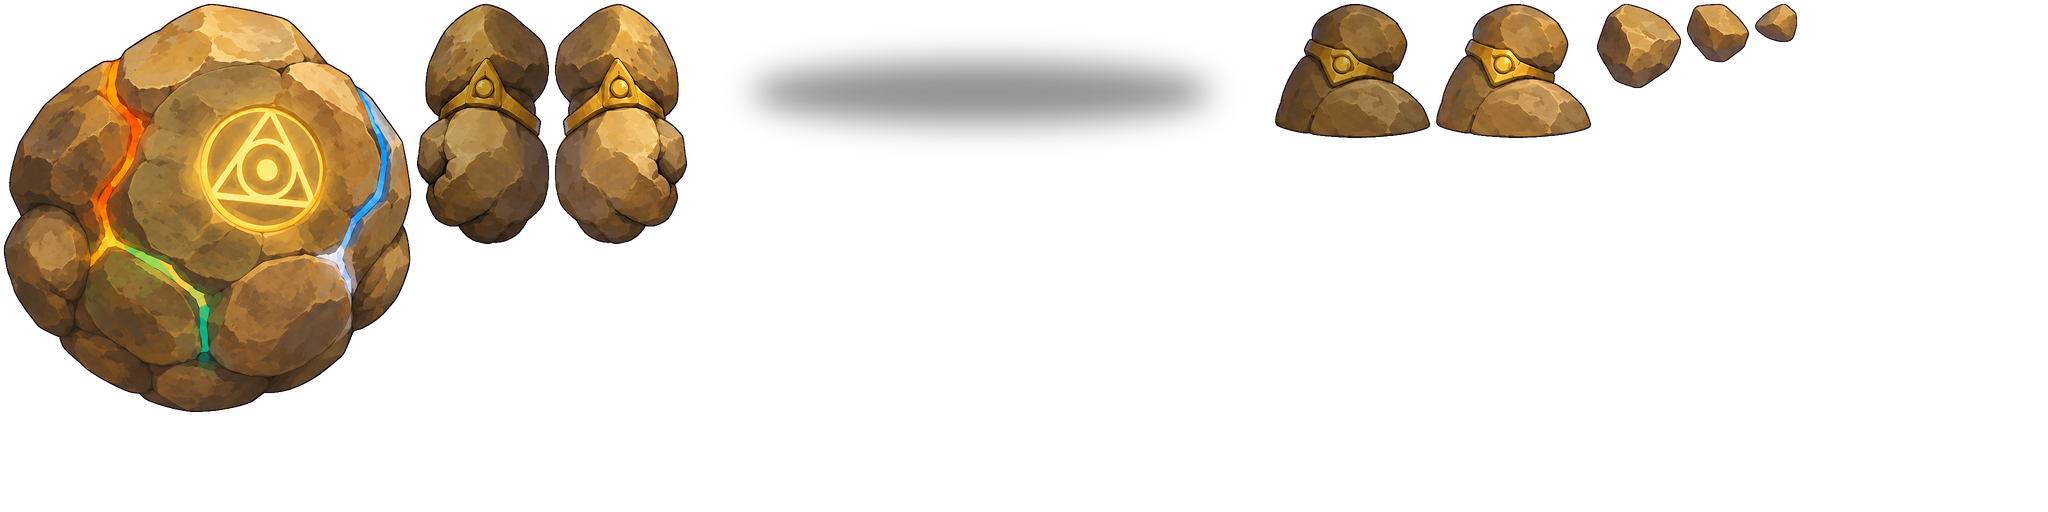
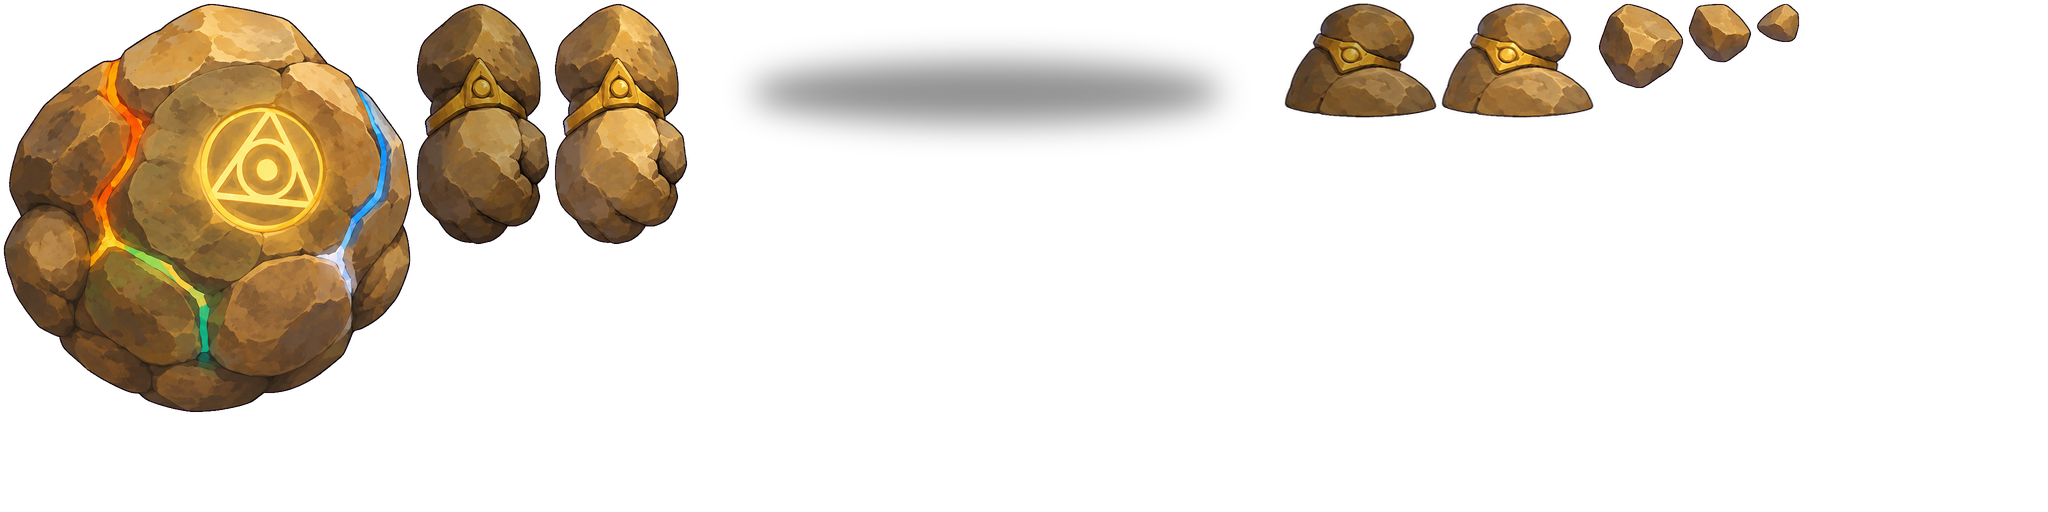
ゴーレムの腕の前後を元の絵どおりに（奥の腕は胴の後ろ）、位置と大きさを元の絵の輪郭に合わせる。codex execはすべて--ephemeralに

Changed region(s): [[0.625, 0.0, 0.875, 0.2812], [0.1875, 0.0, 0.2812, 0.5]]

diff --git a/scripts/golem-build.py b/scripts/golem-build.py
@@ -1,4 +1,4 @@
-"""Builds the golem's own Spine rig (2026-10-02, user: the golem too, with a reaction to damage) from the parts cut
+"""Builds the golem's own Spine rig (2026-10-02, user: the golem too, with a reaction to damage) from the parts cut
 by rig-cut.py (rig-parts.py --set golem): assets/art/pets/rig/golem.{spine-json,atlas,png}.
 
 The golem uses the Necrobinder's Osty state machine (HomunculusPet), so the rig has Osty's animations: idle_loop,
@@ -18,32 +18,38 @@ ROOT = Path(__file__).resolve().parent.parent
 PARTS = ROOT / "assets/art/character/rig/alchemist/parts"
 OUT = ROOT / "assets/art/pets/rig"
 # Laid out over the original picture (assets/art/pets/golem.png, 340x360; user 2026-10-02: "follow the original
-# image closely"): 1 px of it is 1.58 sheet px, its ground (y 318) is y 0 here, its x 170 is x 0. Squat: a round
-# boulder body as wide as tall, stubby legs mostly behind it, short arms with big fists near the ground.
+# image closely"), measured on a grid of it (artifacts/rig-custom/golem-grid.png): 1 px of it is 1.6 sheet px, its
+# x 172 (the body's middle) is x 0 here and its ground (y 325) is y 0. There the body is a boulder 255 px wide
+# (x 45-300, y 0-240); the near arm hangs in FRONT of the body's left side (top at 55,138, fist down to y 265); the
+# far arm hangs BEHIND the body's right edge (top at about 297,150, fist down to y 275; user: the arms' front and
+# back were reversed); the near leg (x 55-155, y 255-325) and the far leg (x 180-275, y 245-310) show under it.
 # On screen it stands as tall as the old still sprite (PetArt.GolemHeight 190 px): measured, one sheet px times
-# SCALE is about 0.31 px, and the golem is about 455 sheet px tall.
-SCALE = 1.34
+# SCALE is about 0.31 px, and the golem is about 525 sheet px tall.
+SCALE = 1.19
 FAR = "c8c8cc"
+BODY_SCALE = 1.0
+ARM_SCALE = 1.0
+LEG_SCALE, LEG_WIDTH = 0.85, 1.15  # squatter legs, as in the original
 
 BONES = {
     "root": (None, 0, 0, 0),
-    "body": ("root", 55, 249, 90),
-    "arm_b": ("body", -168, 290, -102),
-    "arm_f": ("body", 222, 285, -76),
-    "leg_b": ("root", -95, 132, -90),
-    "leg_f": ("root", 125, 132, -90),
+    "body": ("root", 0, 306, 90),
+    "arm_b": ("body", -190, 300, -94),
+    "arm_f": ("body", 205, 285, -89),
+    "leg_b": ("root", -100, 118, -90),
+    "leg_f": ("root", 100, 128, -90),
     # Chips knocked off when hit (hidden otherwise).
-    "chip1": ("body", 120, 330, 0),
-    "chip2": ("body", -20, 400, 0),
-    "chip3": ("body", 170, 230, 0),
+    "chip1": ("body", 80, 420, 0),
+    "chip2": ("body", -60, 470, 0),
+    "chip3": ("body", 140, 300, 0),
 }
 
 SHOULDER_OVERLAP = 0  # the arms' top stone is drawn whole, in front of the body
 HIP_OVERLAP = 0
 
 
-def arm_slot(slot, bone, part, flip, tint, images):
-    images[slot] = prepare(PARTS / f"{part}.png", flip=flip, tint=tint)
+def arm_slot(slot, bone, part, flip, tint, images, scale_by=1.0, width=1.0):
+    images[slot] = prepare(PARTS / f"{part}.png", flip=flip, tint=tint, scale_by=scale_by, width=width)
     r = BONES[bone][3] + 90
     return (slot, bone, *place(images[slot], BONES[bone][1:3], r, SHOULDER_OVERLAP if "arm" in bone else HIP_OVERLAP), r)
 
@@ -140,15 +146,15 @@ SLOT_COLORS = {"hurt": {s: [(0, WHITE), (0.04, RED), (0.3, WHITE)] for s in STON
 
 def main():
     OUT.mkdir(parents=True, exist_ok=True)
-    images = {"shadow": shadow(460, 60)}
-    slots = [("shadow", "root", 30, 8, 0)]
-    slots.append(arm_slot("leg_f", "leg_f", "GOLEM_LEG", False, FAR, images))
-    slots.append(arm_slot("leg_b", "leg_b", "GOLEM_LEG", False, None, images))
-    images["body"] = prepare(PARTS / "GOLEM_BODY.png")
+    images = {"shadow": shadow(470, 60)}
+    slots = [("shadow", "root", -10, 8, 0)]
+    # Back to front as in the original: far arm and far leg behind the body, then the near leg and near arm.
+    slots.append(arm_slot("arm_f", "arm_f", "GOLEM_ARM", False, FAR, images, ARM_SCALE))
+    slots.append(arm_slot("leg_f", "leg_f", "GOLEM_LEG", False, FAR, images, LEG_SCALE, LEG_WIDTH))
+    images["body"] = prepare(PARTS / "GOLEM_BODY.png", scale_by=BODY_SCALE)
     slots.append(("body", "body", *BONES["body"][1:3], 0))
-    # In the original both arms hang in front of the body's sides; the far one a little darker.
-    slots.append(arm_slot("arm_f", "arm_f", "GOLEM_ARM", True, FAR, images))
-    slots.append(arm_slot("arm_b", "arm_b", "GOLEM_ARM", False, None, images))
+    slots.append(arm_slot("leg_b", "leg_b", "GOLEM_LEG", False, None, images, LEG_SCALE, LEG_WIDTH))
+    slots.append(arm_slot("arm_b", "arm_b", "GOLEM_ARM", False, None, images, ARM_SCALE))
     for i, chip in enumerate(("chip1", "chip2", "chip3")):
         images[chip] = prepare(PARTS / f"PEBBLE_{i + 1}.png")
         slots.append((chip, chip, *BONES[chip][1:3], 0))

diff --git a/scripts/generate-icons.py b/scripts/generate-icons.py
@@ -199,7 +199,7 @@ if "--cut-only" not in sys.argv:
         "attached sheet shows base-game icons for STYLE ONLY: do not copy those objects.\n"
         "Then save the generated image as " + sheet.relative_to(ROOT).as_posix() + " in the current repository "
         "(overwrite if it exists). Do not edit any other file. Reply with the saved path only.\n\n" + cells + "\n")
-    cmd = [codex, "exec", "-s", "workspace-write", "-C", str(ROOT), "-c", f'model_reasoning_effort="{arg("--reasoning", "low")}"']
+    cmd = [codex, "exec", "--ephemeral", "-s", "workspace-write", "-C", str(ROOT), "-c", f'model_reasoning_effort="{arg("--reasoning", "low")}"']
     if REFERENCE.exists():
         cmd += ["-i", str(REFERENCE)]
     cmd.append("-")

diff --git a/scripts/generate-art-grid.py b/scripts/generate-art-grid.py
@@ -83,7 +83,7 @@ task = (
     "Then save the generated image as " + sheet.relative_to(ROOT).as_posix() + " in the current repository "
     "(overwrite if it exists). Do not edit any other file. Reply with the saved path only.\n\n"
     "COMMON STYLE FOR EVERY PANEL:\n" + style + "\n\n" + "\n\n".join(panels) + "\n")
-cmd = [codex, "exec", "-s", "workspace-write", "-C", str(ROOT), "-c", f'model_reasoning_effort="{reasoning}"',
+cmd = [codex, "exec", "--ephemeral", "-s", "workspace-write", "-C", str(ROOT), "-c", f'model_reasoning_effort="{reasoning}"',
        "-i", str(KEY_VISUAL), "-"]
 started = time.time()
 print(f"{len(todo)}枚（{', '.join(e['title'] for e in todo)}）を1回で生成します。")

diff --git a/scripts/rig-parts.py b/scripts/rig-parts.py
@@ -223,7 +223,7 @@ task = ("Use your built-in image generation tool to create exactly one image, la
         + sheet.relative_to(ROOT).as_posix() + " (overwrite if it exists). Do not edit any other file. Reply with the "
         "saved path only.\n\n" + BRIEF + "\n".join(f"- {name}: {desc}" for name, desc in PARTS)
         + (f"\nExtra direction: {note}" if note else "") + "\n")
-cmd = [codex, "exec", "-s", "workspace-write", "-C", str(ROOT), "-c", 'model_reasoning_effort="low"']
+cmd = [codex, "exec", "--ephemeral", "-s", "workspace-write", "-C", str(ROOT), "-c", 'model_reasoning_effort="low"']
 for ref in REFS:
     cmd += ["-i", str(ref)]
 cmd.append("-")

diff --git a/scripts/rest-merchant-art.py b/scripts/rest-merchant-art.py
@@ -47,7 +47,7 @@ if "--cut-only" not in sys.argv:
         "RIGHT HALF (shop): the Alchemist standing, full body, three-quarter view facing RIGHT toward a shopkeeper who "
         "is NOT drawn, relaxed, one hand on a vial at the belt, curious. Feet near the bottom edge, head near the top. "
         "No golem in this half.\n" + (arg("--note", "") or ""))
-    cmd = [codex, "exec", "-s", "workspace-write", "-C", str(ROOT), "-c", 'model_reasoning_effort="low"']
+    cmd = [codex, "exec", "--ephemeral", "-s", "workspace-write", "-C", str(ROOT), "-c", 'model_reasoning_effort="low"']
     for ref in REFS:
         cmd += ["-i", str(ref)]
     cmd.append("-")

diff --git a/scripts/generate-art.py b/scripts/generate-art.py
@@ -66,7 +66,7 @@ def run(e):
     with open(LOGS / f"{e['slug']}.log", "w", encoding="utf-8") as log:
         try:
             # The key visual is attached so the alchemist looks the same in every card.
-            subprocess.run([codex, "exec", "-s", "workspace-write", "-C", str(ROOT), "-i", str(KEY_VISUAL), "-"],
+            subprocess.run([codex, "exec", "--ephemeral", "-s", "workspace-write", "-C", str(ROOT), "-i", str(KEY_VISUAL), "-"],
                            input=task, text=True,
                            encoding="utf-8", stdout=log, stderr=subprocess.STDOUT, timeout=900, cwd=ROOT)
         except subprocess.TimeoutExpired:

diff --git a/scripts/homunculus-concepts.py b/scripts/homunculus-concepts.py
@@ -63,7 +63,7 @@ task = ("Use your built-in image generation tool to create exactly one image, sq
         + " (overwrite if it exists). Do not edit any other file. Reply with the saved path only.\n\n" + BRIEF + "\n"
         + "\n".join(f"PANEL {pos}: {desc}" for _, pos, desc in PANELS)
         + (f"\nExtra direction: {note}" if note else "") + "\n")
-cmd = [codex, "exec", "-s", "workspace-write", "-C", str(ROOT), "-c", 'model_reasoning_effort="low"']
+cmd = [codex, "exec", "--ephemeral", "-s", "workspace-write", "-C", str(ROOT), "-c", 'model_reasoning_effort="low"']
 for ref in REFS:
     cmd += ["-i", str(ref)]
 cmd.append("-")

diff --git a/scripts/select-bg.py b/scripts/select-bg.py
@@ -52,7 +52,7 @@ brief = (
     "ascension selector sit) contain only the plain backdrop.\n"
     "Style: Slay the Spire 2 painterly look, minimal thin line work, large flat colour masses with soft brush "
     "texture, dramatic lighting. No text, no logo, no frame, no UI.\n" + (f"Extra direction: {note}\n" if note else ""))
-cmd = [codex, "exec", "-s", "workspace-write", "-C", str(ROOT), "-c", 'model_reasoning_effort="low"']
+cmd = [codex, "exec", "--ephemeral", "-s", "workspace-write", "-C", str(ROOT), "-c", 'model_reasoning_effort="low"']
 for ref in REFS:
     cmd += ["-i", str(ref)]
 cmd.append("-")

diff --git a/scripts/keyvisual.py b/scripts/keyvisual.py
@@ -114,7 +114,7 @@ def run(item):
             "reference as described. Then save the generated image as " + rel + " in the current repository "
             "(overwrite if it exists). Do not edit any other file. Reply with the saved path only.\n\n"
             + BRIEF + "\n" + direction + (f"\nExtra direction: {note}" if note else "") + "\n")
-    cmd = [codex, "exec", "-s", "workspace-write", "-C", str(ROOT)]
+    cmd = [codex, "exec", "--ephemeral", "-s", "workspace-write", "-C", str(ROOT)]
     for ref in REFS:
         cmd += ["-i", str(ref)]
     cmd.append("-")

diff --git a/docs/session-log.md b/docs/session-log.md
@@ -18,7 +18,9 @@
 4. スモーク：ゴーレム・休憩所・商人の確認項目を骨格用に書き換え（`smoke.ps1`はpets/rigもコピー）。
 5. 確認用：`artifacts/rig-probe/golem-v1-sheet.png`（左はネクロバインダー＝大きさの目安）、`artifacts/rig-probe/rest2-cmp.png`、`artifacts/rig-probe/merchant1-cmp.png`。
 
-6. ユーザー「ゴーレムがデカくてやだ。元画像に丁寧に沿って」→ `rig-parts.py --set golem2`で、元の絵（`assets/art/pets/golem.png`）と同じずんぐりした形の部品を生成し直し（1回）、元の絵に重ねて配置（元の絵の1px＝1.58シート px、脚は胴の後ろ、腕は胴の両脇の手前）。画面の高さは元の1枚絵と同じ190px（SCALE 1.34）。比較：`artifacts/rig-custom/golem-cmp.png`、ゲームでの大きさ：`artifacts/rig-probe/golem-v2-sheet.png`。スモーク405件PASS。**ゲームが起動中で未反映**（終了後に`scripts/update.ps1`）。
+6. ユーザー「ゴーレムがデカくてやだ。元画像に丁寧に沿って」→ `rig-parts.py --set golem2`で、元の絵（`assets/art/pets/golem.png`）と同じずんぐりした形の部品を生成し直し（1回）、元の絵に重ねて配置（元の絵の1px＝1.58シート px、脚は胴の後ろ、腕は胴の両脇の手前）。画面の高さは元の1枚絵と同じ190px（SCALE 1.34）。比較：`artifacts/rig-custom/golem-cmp.png`、ゲームでの大きさ：`artifacts/rig-probe/golem-v2-sheet.png`。スモーク405件PASS。
+7. ユーザー「ゴーレムの手の前後が逆。位置も微妙に違う」→ 元の絵に方眼を引いて部位の位置を測り（`artifacts/rig-custom/golem-grid.png`）、奥の腕（画面右）を胴の後ろ、手前の腕を胴の前に。元の絵の輪郭を重ねて（`artifacts/rig-custom/golem-overlay.py`）胴・腕・脚の位置と大きさを合わせた（腕を大きく、脚は低く幅広に）。画面の高さ190px（SCALE 1.19）。スモーク405件PASS、反映済み（旧版`artifacts/backups/20261002-202433-687`）。確認用：`artifacts/rig-custom/golem-cmp.png`、`artifacts/rig-probe/golem-v3-sheet.png`。
+8. ユーザー「Codexにすべてのチャットを送るのはやめて。確認作業やサブエージェントとして使うときだけ」→ Claude Code側にCodexへ会話を転送する設定はなかった（フックはherdrのセッション報告だけ）。`codex exec`を呼ぶスクリプトすべてに`--ephemeral`を付け、Codexの履歴に残らないようにした（メモリcodex-usage-scope）。
 
 ### 次にやること・返答待ち
 1. **ユーザーが実画面で確認**：ゴーレムの大きさと位置、休憩所の位置（火との距離、思考の吹き出し）、商人の大きさ。
